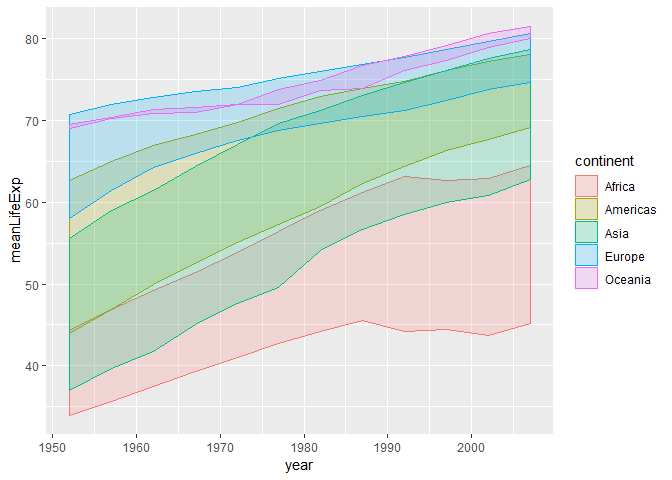
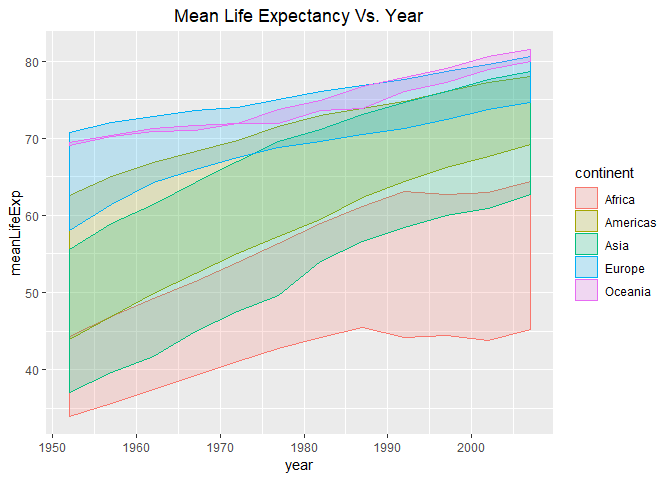
added table of contents

diff --git a/hw03-aidanh14.md b/hw03-aidanh14.md
@@ -10,7 +10,7 @@ We were given a list of tasks to choose three from and complete. Here are my cho
 
 -   *"How is life expectancy changing over time on different continents?"*
 
--   *"Task 2"*
+-   *"Get the maximum and minimum of GDP per capita for all continents."*
 
 -   *"Task 3"*
 
@@ -21,8 +21,8 @@ suppressPackageStartupMessages(library("gapminder"))
 suppressPackageStartupMessages(library("tidyverse"))
 ```
 
-"How is life expectancy changing over time on different continents?"
---------------------------------------------------------------------
+Task 1: "How is life expectancy changing over time on different continents?"
+----------------------------------------------------------------------------
 
 To see how life expectancy over time, let's find the mean life expectancy of each continent for each year we have data for.
 
@@ -55,7 +55,9 @@ lifeExpOverTime
 A simple line plot of mean life expectancy vs. year will give us an idea of what's happening over time.
 
 ``` r
-lifeExpPlot <- ggplot(lifeExpOverTime, aes(y = meanLifeExp, x = year, color=continent, group=continent)) 
+lifeExpPlot <- ggplot(lifeExpOverTime, aes(y = meanLifeExp, x = year, color=continent, group=continent)) +
+  ggtitle("Mean Life Expectancy Vs. Year") +
+  theme(plot.title = element_text(hjust = 0.5)) #Center the title, left-aligned by default
 
 lifeExpPlot +
   geom_line()
@@ -68,7 +70,8 @@ Plotting the mean only tells us part of the story. What about the standard devat
 ``` r
 lifeExpPlot +
   geom_line() +
-  geom_errorbar(aes(ymin = meanLifeExp - sdLifeExp, ymax = meanLifeExp + sdLifeExp))
+  geom_errorbar(aes(ymin = meanLifeExp - sdLifeExp,
+                    ymax = meanLifeExp + sdLifeExp))
 ```
 
 ![](hw03-aidanh14_files/figure-markdown_github/line%20with%20error%20bars-1.png)
@@ -77,9 +80,14 @@ The plot is getting a little messy now. A ribbon plot can tell us the same infor
 
 ``` r
 lifeExpPlot +
-  geom_ribbon(aes(ymin = meanLifeExp - sdLifeExp, ymax = meanLifeExp + sdLifeExp, fill=continent), alpha=0.2)
+  geom_ribbon(aes(ymin = meanLifeExp - sdLifeExp,
+                  ymax = meanLifeExp + sdLifeExp,
+                  fill=continent), alpha=0.2)
 ```
 
 ![](hw03-aidanh14_files/figure-markdown_github/ribbon%20plot-1.png)
 
 Now *that's* a clean plot that gives us all the information we need.
+
+Task 2: "Get the maximum and minimum of GDP per capita for all continents."
+---------------------------------------------------------------------------
